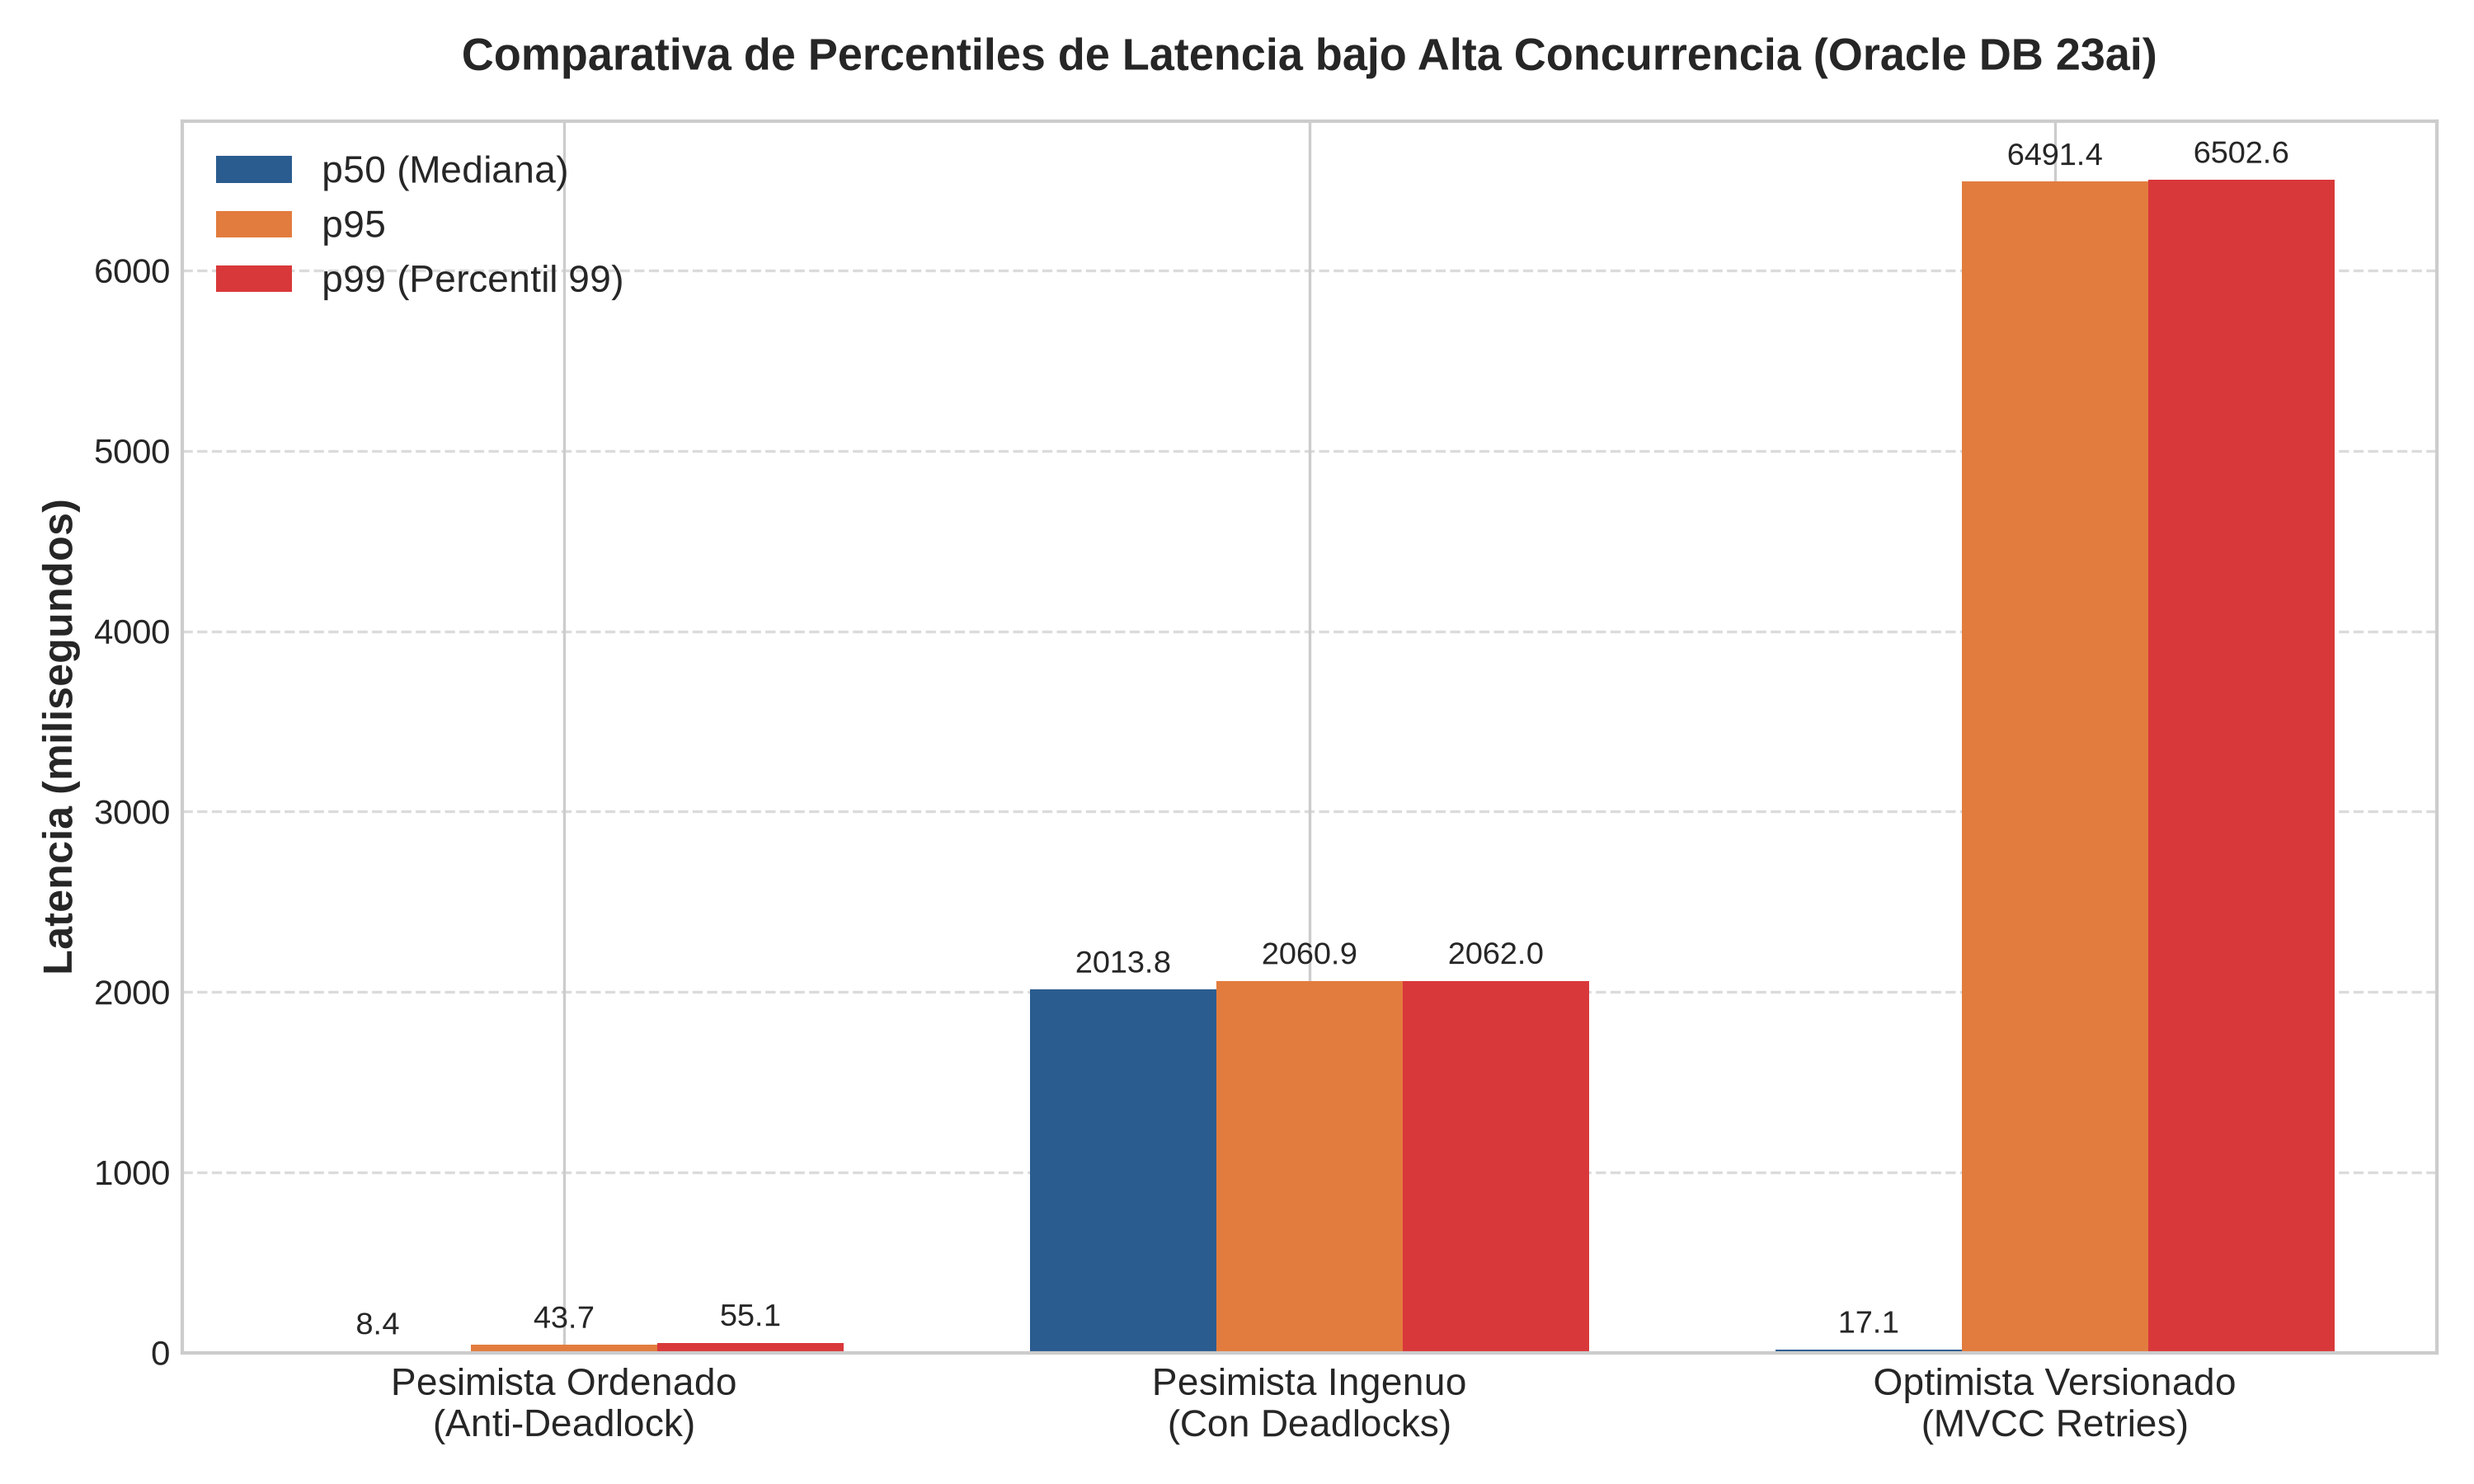
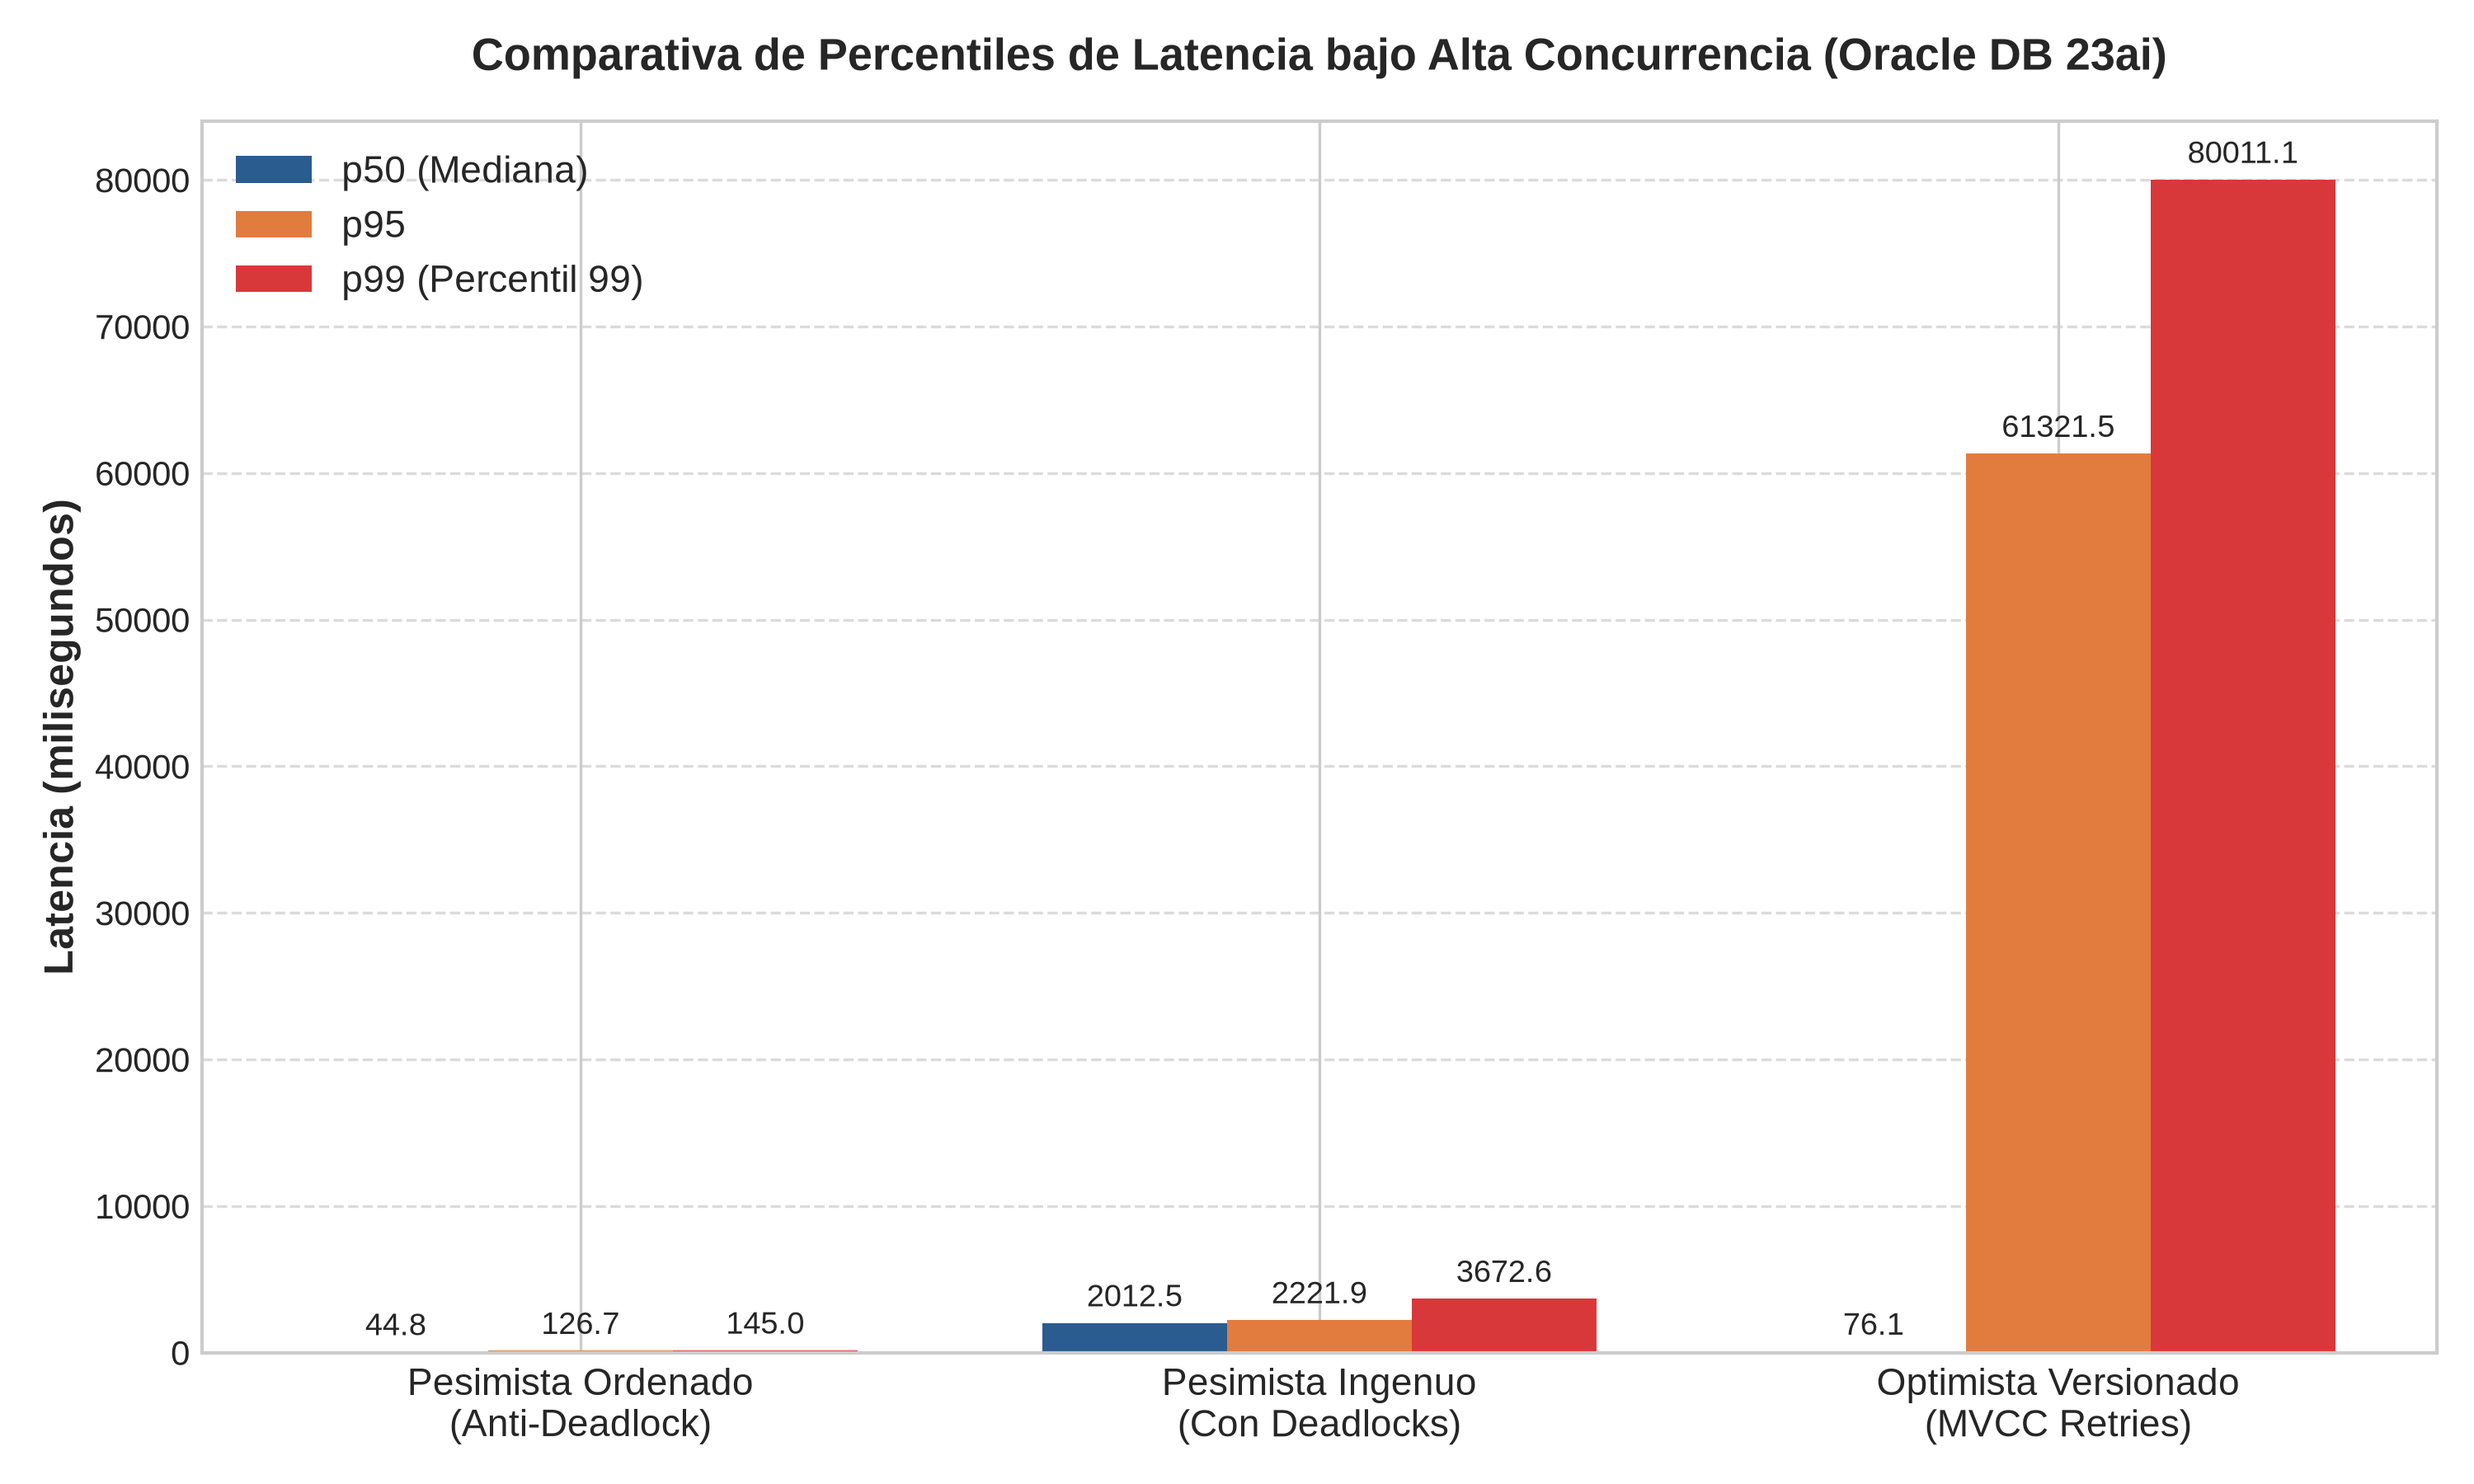
feat: Last changes IG, Live and Dashboard

diff --git a/README.md b/README.md
@@ -216,5 +216,5 @@ Para ejecución desatendida, pipelines CI/CD o entornos sin servidor gráfico:
 
 ---
 
-## 👨💻 Autor
+## 👨💻 Autor Perez Olvera Alexis A.
 Proyecto diseñado y desarrollado para demostrar capacidades avanzadas en **RDBMS, PL/SQL, Exadata y Database Cloud Services**.
